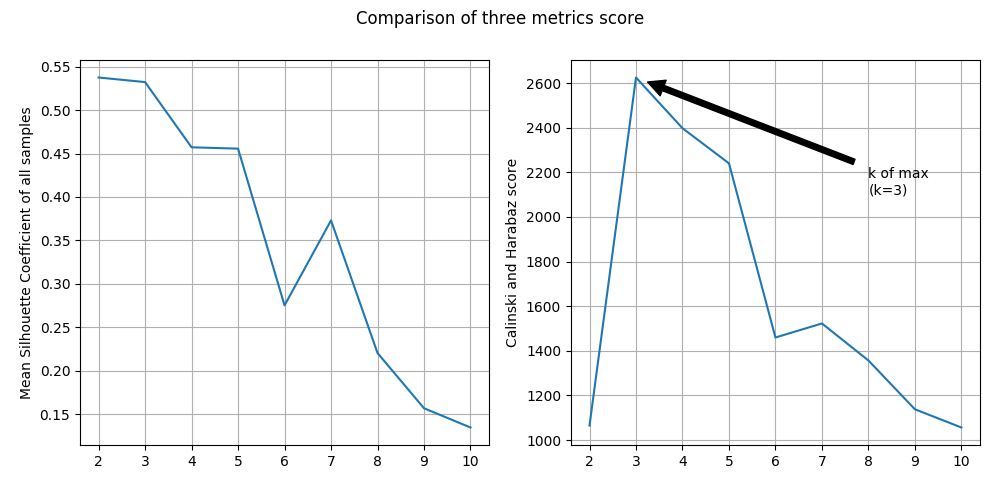
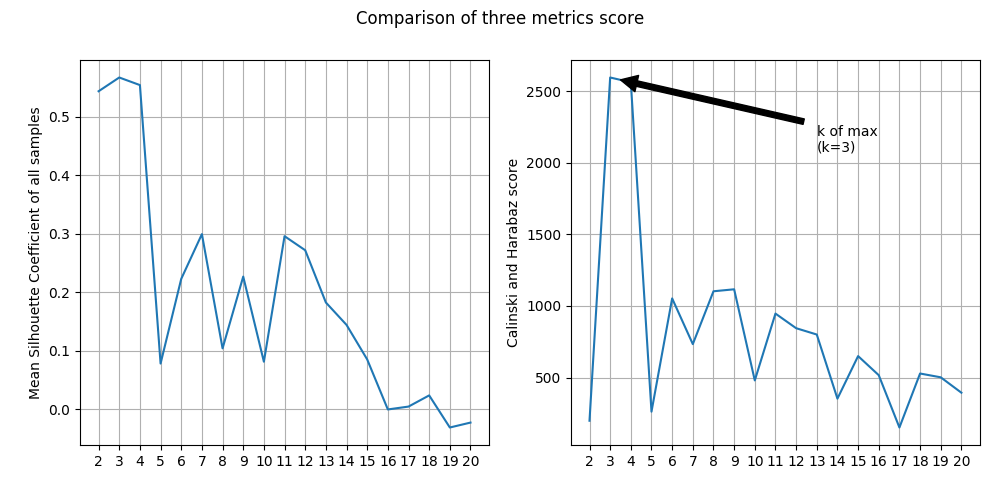
Fix converge condition

diff --git a/Algorithm/KMeans/KMeans_Sales_Transactions/KMeans_Sales_Transactions_FromScratch.py b/Algorithm/KMeans/KMeans_Sales_Transactions/KMeans_Sales_Transactions_FromScratch.py
@@ -77,8 +77,8 @@ class KMeans:
             # Calculate new centroids from the clusters
             centroids = self.__calculateNewCentroids(clusters, X)
             # If no centroids have changed => convergence
-            diff = centroids - prev_centroids
-            if not diff.all() < self.__tol:
+            diff = abs(centroids - prev_centroids)
+            if diff.all() < self.__tol:
                 break
             iteration += 1
         
@@ -119,7 +119,7 @@ def evaluateModel(data_train, kmeans):
 
 def main():
 
-    MAX_TRY = 10
+    MAX_TRY = 20
 
     # Load Data
     data_train = loadData('Datasets/Sales_Transactions_Dataset_Weekly.csv')

diff --git a/Notes/Subject/Sales_Transactions.md b/Notes/Subject/Sales_Transactions.md
@@ -29,7 +29,7 @@ PS. Best k identify by the maximum of Calinski and Harabaz score
 Model               |Best K|Calinski and Harabaz score|Mean Silhouette Coefficient|Build in score
 --------------------|------|--------------------------|---------------------------|--------------
 K-Means Scikit Learn|3     |3191.7559                 |0.6147                     |-709316.5594
-K-Means From Scratch|3     |2625.0682                 |0.5322                     |-
+K-Means From Scratch|3     |2595.1019                 |0.5667                     |-
 
 ### K-Means Scikit Learn
 
